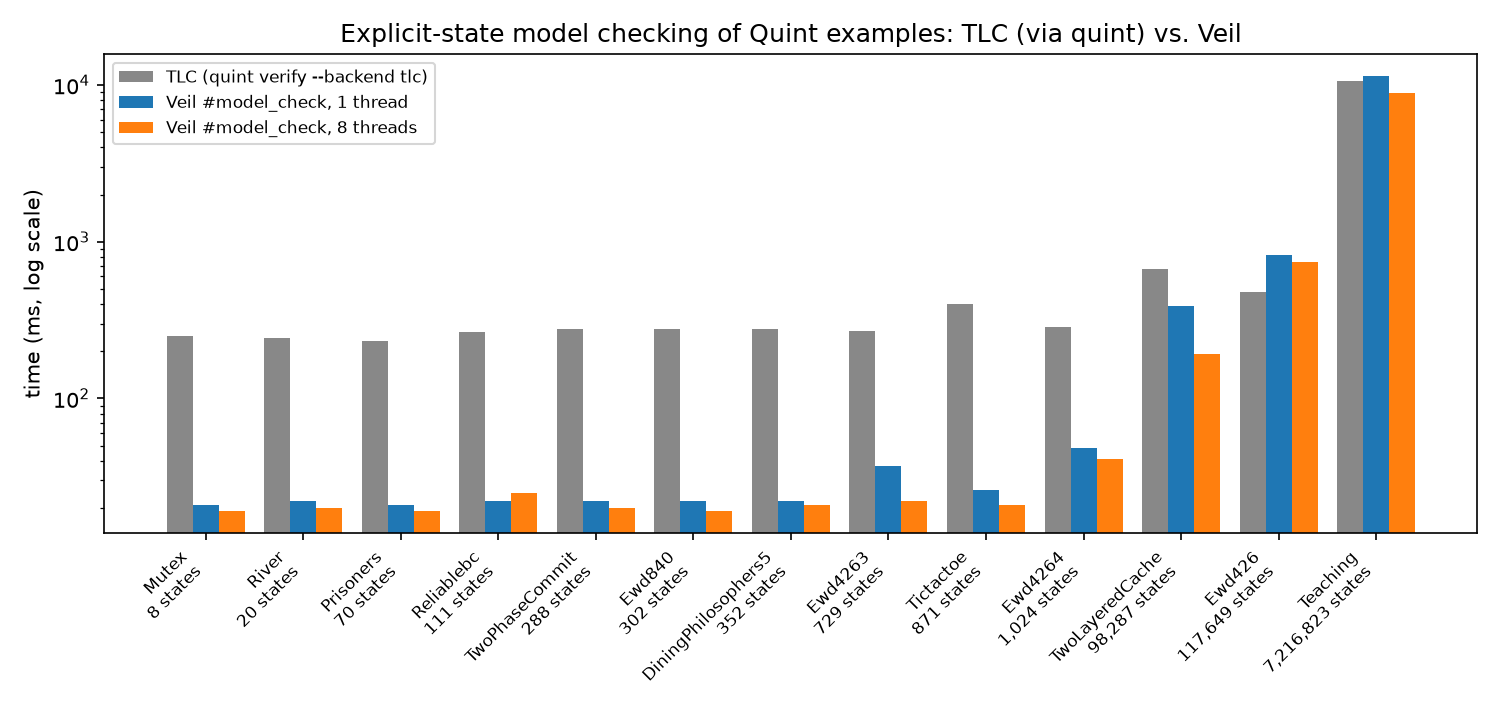
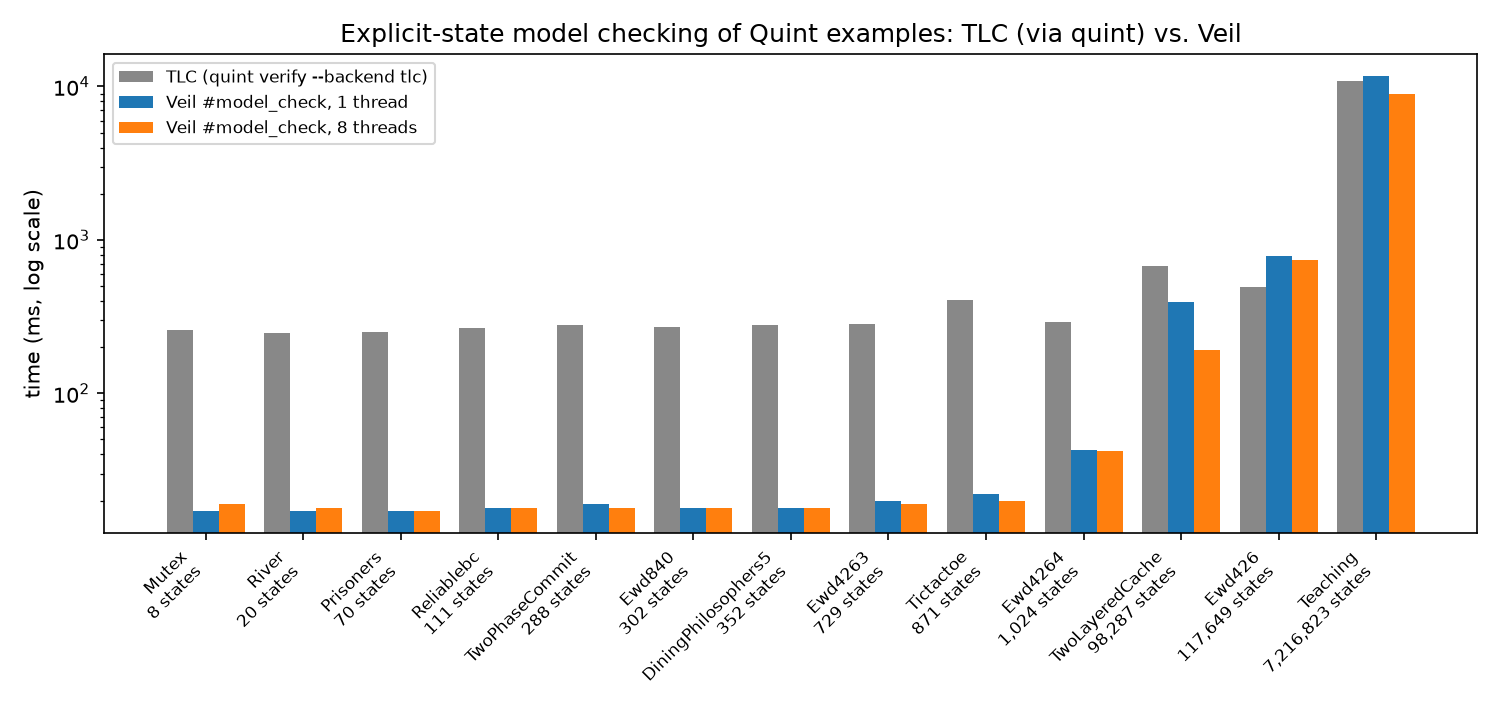
chore(quint): rerun the TLC vs. Veil benchmark (three runs each)

diff --git a/Examples/Quint/README.md b/Examples/Quint/README.md
@@ -164,8 +164,8 @@ five seconds.
 
 ![TLC vs. Veil on Quint's finite examples](benchmark.png)
 
-Time to check each finite instance completely (MacBook, 18 cores; the minimum of three TLC runs
-and one Veil run per thread count):
+Time to check each finite instance completely (MacBook, 18 cores; the minimum of three runs of
+each):
 
 - **TLC**: the time `quint verify --backend tlc` reports for the check. It includes starting
   TLC's JVM, but not quint's translation of the spec to TLA+ through Apalache (about 3.3 s more
@@ -176,23 +176,23 @@ and one Veil run per thread count):
 
 | Instance | States | TLC (ms) | Veil, 1 thread (ms) | Veil, 8 threads (ms) |
 | --- | ---: | ---: | ---: | ---: |
-| `two_phase_commit_3` | 288 | 277 | 22 | 20 |
-| `teaching` | 7,216,823 | 10,654 | 11,369 | 8,935 |
-| `mutex` | 8 | 249 | 21 | 19 |
-| `ewd840_3` | 302 | 276 | 22 | 19 |
-| `ewd426` | 117,649 | 477 | 821 | 741 |
-| `ewd426_3` | 729 | 269 | 37 | 22 |
-| `ewd426_4` | 1,024 | 287 | 48 | 41 |
-| `DiningPhilosophers5` | 352 | 278 | 22 | 21 |
-| `reliablebc` | 111 | 266 | 22 | 25 |
-| `two_layered_cache` | 98,287 | 672 | 386 | 193 |
-| `river` | 20 | 243 | 22 | 20 |
-| `prisoners3` | 70 | 233 | 21 | 19 |
-| `tictactoe` | 871 | 403 | 26 | 21 |
+| `two_phase_commit_3` | 288 | 277 | 19 | 18 |
+| `teaching` | 7,216,823 | 10,884 | 11,661 | 8,980 |
+| `mutex` | 8 | 257 | 17 | 19 |
+| `ewd840_3` | 302 | 270 | 18 | 18 |
+| `ewd426` | 117,649 | 491 | 789 | 741 |
+| `ewd426_3` | 729 | 284 | 20 | 19 |
+| `ewd426_4` | 1,024 | 292 | 43 | 42 |
+| `DiningPhilosophers5` | 352 | 280 | 18 | 18 |
+| `reliablebc` | 111 | 268 | 18 | 18 |
+| `two_layered_cache` | 98,287 | 676 | 393 | 191 |
+| `river` | 20 | 248 | 17 | 18 |
+| `prisoners3` | 70 | 251 | 17 | 17 |
+| `tictactoe` | 871 | 404 | 22 | 20 |
 
 On small state spaces Veil's native checker answers in about 20 ms, where TLC needs about
 250 ms, mostly JVM start-up. On the large ones both explore millions of states per second:
-`teaching` (7.2 million states) takes 10.7 s with TLC and 11.4 s (one thread) or 8.9 s (eight
+`teaching` (7.2 million states) takes 10.9 s with TLC and 11.7 s (one thread) or 9.0 s (eight
 threads) with Veil; `two_layered_cache` is faster in Veil, `ewd426` in TLC.
 
 Reproduce with [scripts/bench-model-check.py](../../scripts/bench-model-check.py) on copies of
